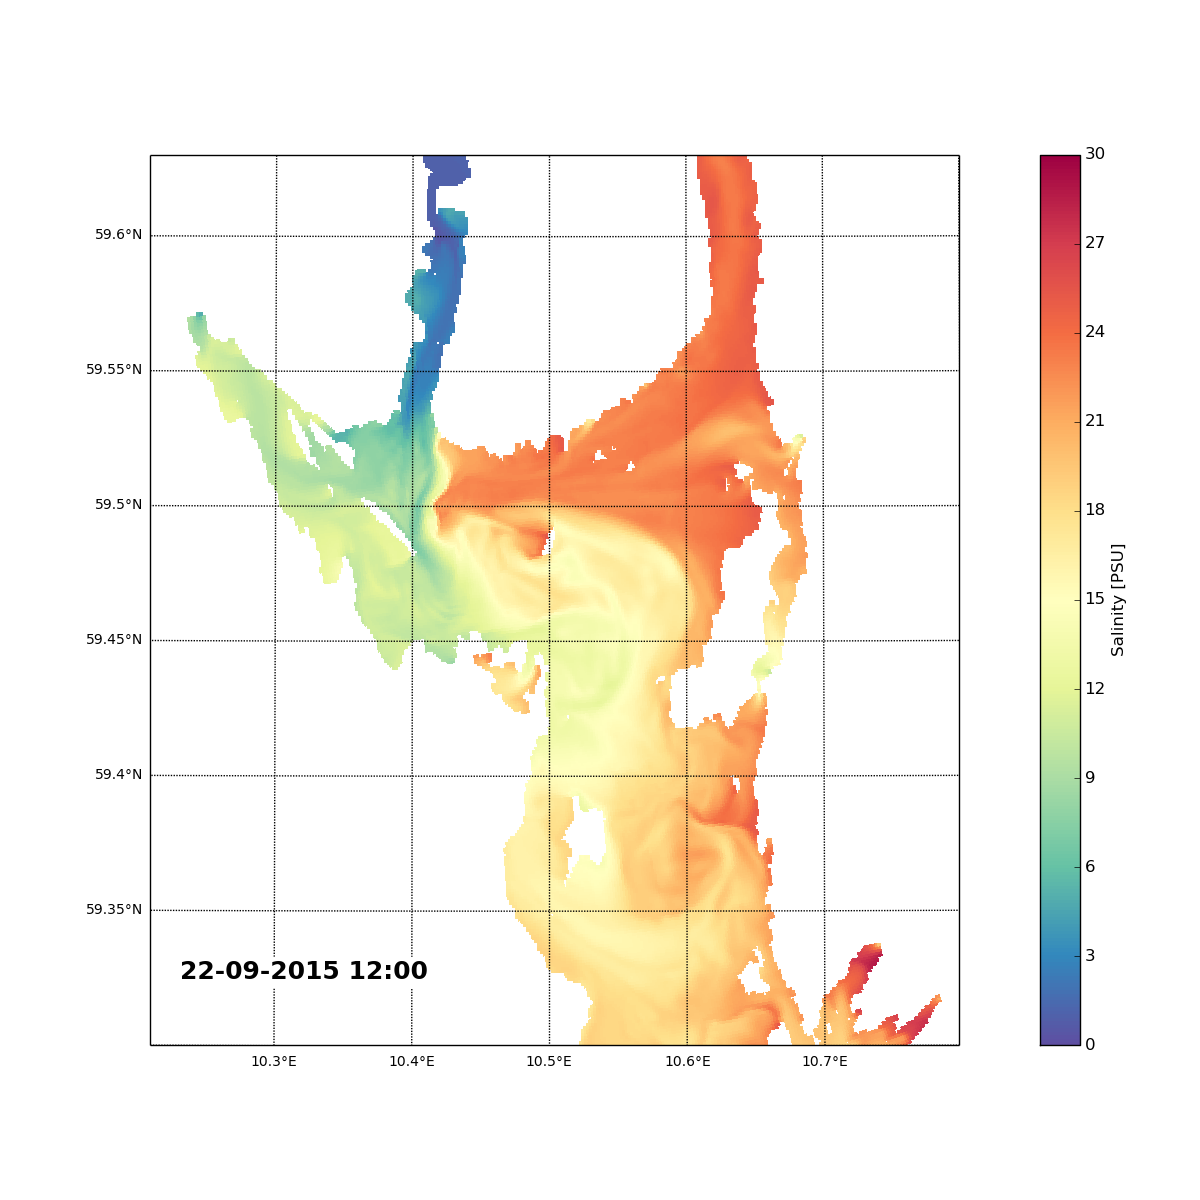
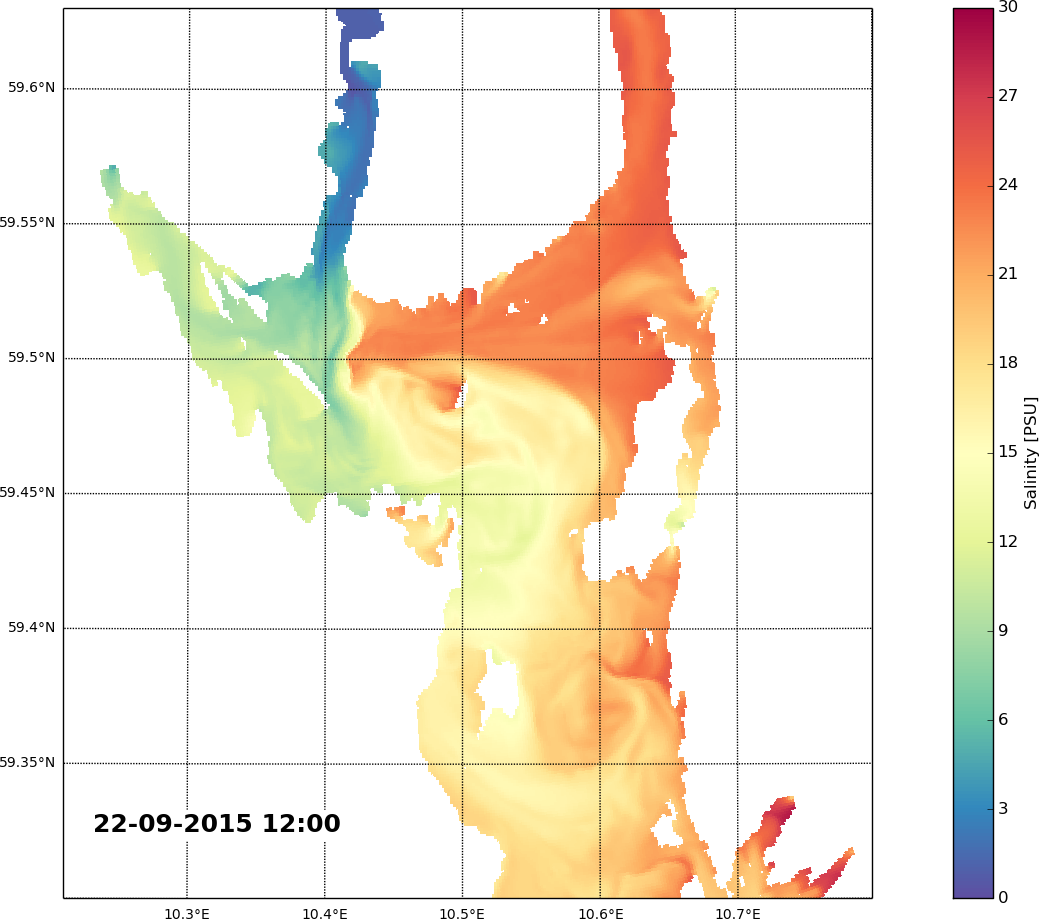
more sss figures, also other minor edits

diff --git a/Toktrapport.tex b/Toktrapport.tex
@@ -140,7 +140,7 @@ Client name                  &               \\ \hline
 {\bf \sffamily Abstract}                                          \\
 A scientific cruise onboard the research vessel R/V Trygve Braarud in the Oslofjord 21st to 23rd of September 2015 provided observations on hydrography and trajectories of drifters. The cruise was carried out as a part of the FjordOs project to investigate if targeted observations of hydrography and drifters would benefit the validation of the new Oslofjord model, the FjordOs-model.
 
-The cruise was carried out shortly after the storm "Petra" produced heavy rainfall in the surrounding areas and caused an increase in river discharge. Vertical CTD (Conductivity, Temperature and Depth) profiles at stations located along three different transects across the fjord reveal that the strong input of fresh water from Drammen river can be tracked halfway down the Oslofjord.
+The cruise took place shortly after the storm "Petra" produced heavy rainfall in the areas surrounding the Oslofjord and caused an increase in river discharge. Vertical CTD (Conductivity, Temperature and Depth) profiles at stations located along three different transects across the fjord reveal that the strong input of fresh water from Drammen river can be tracked halfway down the Oslofjord.
 
 Provided is documentation of the observations and comparisons with simulations using the FjordOs-model. Drifters were released in groups of three in two drop zones. Four drifters were released along a line in a third drop zone, and in addition two individual drifters were released at selected spots. The drifter trajectories are compared with simulated trajectories using the open source trajectory-model OpenDrift.
 %\\[50mm] % Add whitespace if necessary
@@ -173,7 +173,7 @@ Disciplinary signature       & Responsible signature      \\
 \section*{\hspace{17mm}Abstract}
 A scientific cruise onboard the research vessel R/V Trygve Braarud in the Oslofjord 21st to 23rd of September 2015 provided observations on hydrography and trajectories of drifters. The cruise was carried out as a part of the FjordOs project to investigate if targeted observations of hydrography and drifters would benefit the validation of the new Oslofjord model, the FjordOs-model.
 
-The cruise was carried out shortly after the storm "Petra" produced heavy rainfall in the surrounding areas and caused an increase in river discharge. Vertical CTD (Conductivity, Temperature and Depth) profiles at stations located along three different transects across the fjord reveal that the strong input of fresh water from Drammen river can be tracked halfway down the Oslofjord.
+The cruise took place shortly after the storm "Petra" produced heavy rainfall in the areas surrounding the Oslofjord and caused an increase in river discharge. Vertical CTD (Conductivity, Temperature and Depth) profiles at stations located along three different transects across the fjord reveal that the strong input of fresh water from Drammen river can be tracked halfway down the Oslofjord.
 
 Provided is documentation of the observations and comparisons with simulations using the FjordOs-model. Drifters were released in groups of three in two drop zones. Four drifters were released along a line in a third drop zone, and in addition two individual drifters were released at selected spots. The drifter trajectories are compared with simulated trajectories using the open source trajectory-model OpenDrift.
 
@@ -205,7 +205,7 @@ Provided is documentation of the observations and comparisons with simulations u
 %\pagenumbering{arabic}
 
 \section{Introduction}
-Provided is a documentation of a scientific cruise in the Oslofjord 21st to 23rd of September 2015. The cruise was a pilot study to examine if more field tests would benefit the validation of the new Oslofjord model (ref. teknisk rapport), and was carried out as part of the FjordOs project.
+Provided is a documentation of a scientific cruise in the Oslofjord from the 21st to 23rd of September 2015. The cruise was a pilot study to investigate if targeted observations would benefit the validation of the new Oslofjord model (ref. teknisk rapport), and was carried out as part of the FjordOs project.
 
 
 Nine drifters were used during the cruise in addition to CTD measurements (Figure~\ref{fig:Utstyr}). The drifters were dropped in four different zones. CTD measurements were taken along three different transects across the fjord. %The ships log were used to estimate the current velocity by finding the difference between speed over ground and speed through water measured at 2.2 meters depth below the keel of the vessel. 
@@ -256,7 +256,7 @@ Due to the heavy rainfall that followed, rivers and streams were flooded and cau
 During the cruise, the weather was sunny with light or gentle breeze (Figure~\ref{fig:Wind}). The wind direction Monday afternoon was southerly, turning east. 
 
 \subsection{Ocean model}
-The FjordOs-model was set up for the time of the pilot cruise. (Link til teknisk rapport for FjordOs-modellen). Current fields at 2 meters depth (Figure~\ref{fig:Current1} to \ref{fig:Current4}) reveals a strong outflow from the Drammens fjord during the cruise. When comparing this to the sea surface salinity (SSS) i Figure~\ref{fig:Salinity1}, we conclude that this strong current is indeed a result of the freshwater from the Drammen river.
+The FjordOs-model was set up for the time of the cruise. (Link til teknisk rapport for FjordOs-modellen). Current fields at 2 meters depth (Figure~\ref{fig:Current1} - \ref{fig:Current4}) reveal a strong outflow from the Drammens fjord during the cruise. When comparing this to the sea surface salinity (SSS) i Figure~\ref{fig:Salinity1}, we conclude that this strong current is indeed a result of the increased freshwater discharge from the Drammen river.
 
 %(Noe om styrken p\aa str\o mmen i forhold til vanlig? Temperaturfelt for \aa vise at dette er ferskvann? Mer info om FjordOs-modellen eller holder det \aa vise til den tekniske rapporten?)
 
@@ -269,7 +269,7 @@ The FjordOs-model was set up for the time of the pilot cruise. (Link til teknisk
 
 
 \subsection{Drifter trajectories}
-The drifters are made from a drainpipe 1m long, and is equipped with a foam "donut" approximately 20 cm from the top. The purpose of the donut is to stabilize the drifter, and to decrease vertical motion due to small surface waves. The pipe is filled with water when it is dropped into the sea, and is also ballasted for the drifter to stay vertically. The ballast is tuned so that the donut is level with the water surface.
+The drifters that was used during the cruise are experimental low-cost units produced by a Norwegian Startup. They are made from a plastic drainpipe 1m long, and is equipped with a foam "donut" approximately 20 cm from the top. The purpose of the donut is to stabilize the drifter, and to decrease vertical motion due to small surface waves. The pipe is filled with water when it is dropped into the sea, and is  ballasted for the drifter to stay vertically. The ballast is tuned so that the donut is level with the water surface.
 
 The Arduiono\footnote{https://www.arduino.cc/}-based control unit of the drifters, located at the top of the drifter, is equipped with a GPS-reciever and a GSM-transmitter. The refresh rate of the positions sent to our database was set to 0.0167 Hz (updates once every minute). Unfortunately, some of the drifters failed\footnote{Stopped sending data to our database. This is being fixed by the developer of the drifters.} during the cruise.
 
@@ -745,23 +745,36 @@ To be continued... (resultater fra FjordOs modellen)
 % ----------------------------------------------------------------------------
 \section{Discussion \& Conclusions}
 
-To be continued...
+Seems like there was too much influence from the Drammen river on the drifter trajectories. Drifters in areas not too influenced directly by Drammen river showed good comparison to simulations.
+The FjordOs-model provided, in general, better drifter trajectories than the operational NorKyst-800m model.
+
+To be continued...?
+
 
 
 \clearpage
 \section*{\hspace{17mm}Acknowledgements}
-The present research and development is mostly funded by the the regional research funds Oslofjordfondet. We gratefully acknowledge the support. Lars Petter R\o ed at MET Norway has contributed with valuable discussions of both planning of the cruise and post processing of data. The authors would also like to thank the crew at the research vessel R/V Trygve Braarud. 
+The present research and development is mostly funded by the the regional research fund Oslofjordfondet. We gratefully acknowledge the support. Lars Petter R\o ed at MET Norway has contributed with valuable discussions of both planning of the cruise and post processing of data. The authors would also like to thank the crew at the research vessel R/V Trygve Braarud. 
 
 \clearpage
 \section*{\hspace{17mm}Appendix}
 
 \begin{figure}[ht]
 \centerline{
-\includegraphics*[width=0.6\textwidth]{Python/salthold_96}}
+\includegraphics*[width=1.0\textwidth]{Python/salthold_72}}
 \caption{\small
-Sea surface salinity from the FjordOs model at the start of the cruise. Note the freshwater coming out from the Dramensfjorden.
+Sea surface salinity from the FjordOs model at the start of the cruise. Note the freshwater coming out from the Drammensfjorden.
 }
 \label{fig:Salinity1}
+\end{figure}
+
+\begin{figure}[ht]
+\centerline{
+\includegraphics*[width=1.0\textwidth]{Python/salthold_96}}
+\caption{\small
+Sea surface salinity from the FjordOs model at approximately 24 hours into the cruise. Note the freshwater from the Drammensfjorden has spread out further compared to Figure~\ref{fig:Salinity1}.
+}
+\label{fig:Salinity2}
 \end{figure}
 
 \begin{figure}[h]
